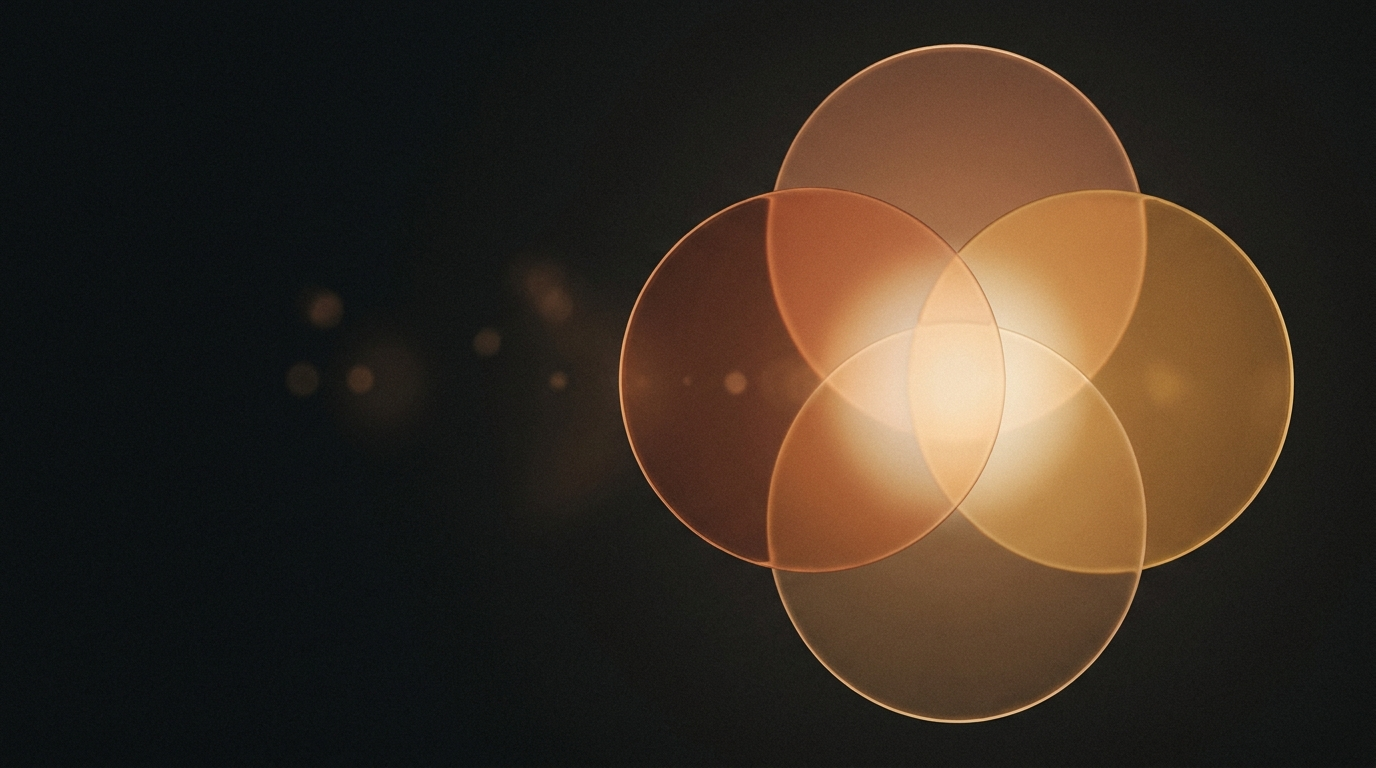
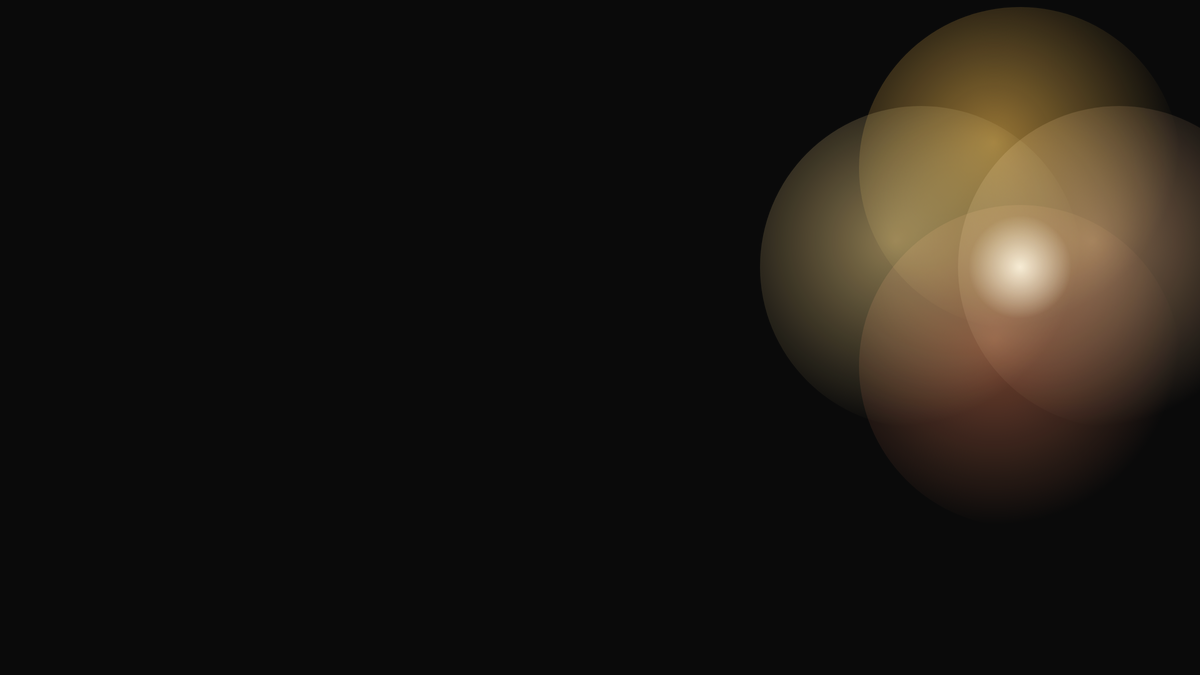
Lab Notes covers: new mark, agreed diagram, remove the mirror
The cover pipeline now carries the identity decided in September.

- Brand lockup top left: the mark at 44px with IKIGAI COLLECTIVE
  beside it. The footer keeps the URL, without the mark.
- New master built from the agreed ikigai diagram, replacing the
  generative one. Sized to the cover, so background() skips the
  week-seeded crop; tone variation still applies.
- Mirror removed, along with the NO_FLIP exceptions for weeks 13,
  15, 17, 19 and 21. Per Dex: the flip has never once been wanted.
- Muted grey #8a837c to #8a8078, the contrast-verified token. The
  old value failed WCAG AA at 3.25:1 on a card.
- mark.py draws the mark with PIL, supersampled with round caps,
  so the pipeline stays self-contained and needs no asset file.

Note for whoever runs this: it is macOS-only, the Georgia paths are
hardcoded, and it rebuilds all 22 covers rather than only the newest.
The Substack archive is not reissued, so the site and Substack will
differ for older posts.

Claude-Session: https://claude.ai/code/session_01SPhhSGPW4XxErHSNk57FmR

diff --git a/lab-notes/make_covers.py b/lab-notes/make_covers.py
@@ -17,11 +17,13 @@ from pathlib import Path
 
 from PIL import Image, ImageDraw, ImageEnhance, ImageFont
 
+from mark import mark_image
+
 ROOT = Path(__file__).resolve().parent
 SRC = ROOT / "src"
 OUT = ROOT / "img"
 
-FG, ACCENT, MUTED = "#e8e6e3", "#c4956a", "#8a837c"
+FG, ACCENT, MUTED = "#e8e6e3", "#c4956a", "#8a8078"
 GEORGIA = "/System/Library/Fonts/Supplemental/Georgia.ttf"
 GEORGIA_I = "/System/Library/Fonts/Supplemental/Georgia Italic.ttf"
 W, H = 1200, 675
@@ -42,19 +44,16 @@ def parse_meta(path: Path) -> dict:
     return meta
 
 
-# Weeks where the seeded flip would land the Venn cluster on the text (left) side.
-NO_FLIP = {13, 15, 17, 19, 21}
-
-
 def background(week: int) -> Image.Image:
     """Week-seeded crop + tone of the master: same family, distinct feel."""
     m = Image.open(SRC / "master-16x9.png").convert("RGB")
-    mw, mh = m.size  # 1376x768
-    x_off = (week * 37) % max(1, mw - W)
-    y_off = (week * 23) % max(1, mh - H)
-    im = m.crop((x_off, y_off, x_off + W, y_off + H))
-    if week % 2 and week not in NO_FLIP:
-        im = im.transpose(Image.FLIP_LEFT_RIGHT)
+    mw, mh = m.size
+    if (mw, mh) == (W, H):
+        im = m
+    else:
+        x_off = (week * 37) % max(1, mw - W)
+        y_off = (week * 23) % max(1, mh - H)
+        im = m.crop((x_off, y_off, x_off + W, y_off + H))
     im = ImageEnhance.Brightness(im).enhance(0.94 + (week % 5) * 0.03)
     im = ImageEnhance.Color(im).enhance(0.92 + (week % 4) * 0.05)
     return im
@@ -88,6 +87,12 @@ def cover(meta: dict) -> None:
     week = int(meta["week"])
     im = background(week)
     d = ImageDraw.Draw(im)
+    # brand lockup, top left: the mark with the wordmark beside it
+    mark_px, wordmark_px = 44, 22
+    m = mark_image(mark_px, ACCENT)
+    im.paste(m, (TEXT_X, 42), m)
+    d.text((TEXT_X + mark_px + 16, 42 + (mark_px - wordmark_px) // 2 - 1),
+           " ".join("IKIGAI COLLECTIVE"), font=font(GEORGIA, wordmark_px), fill=MUTED)
     kicker = "LAB NOTES"
     kf = font(GEORGIA, 20)
     tf = title_font(d, meta["title"])

diff --git a/lab-notes/mark.py b/lab-notes/mark.py
@@ -1,0 +1,35 @@
+"""Draw the Ikigai Collective mark with PIL, supersampled, with round caps.
+
+Geometry is the resolved master: 64x64 box, stroke 5, arc radii 7/11/15
+about a baseline at y=39, stem to y=25, released dot r 4.6 at (47, 13.5).
+Kept as code rather than an asset so the cover pipeline stays self-contained.
+"""
+from PIL import Image, ImageDraw
+
+SS = 8  # supersample factor
+
+
+def mark_image(size: int, colour: str) -> Image.Image:
+    s = size * SS / 64.0
+    im = Image.new("RGBA", (size * SS, size * SS), (0, 0, 0, 0))
+    d = ImageDraw.Draw(im)
+    w = 5 * s                      # stroke width
+    r = w / 2                      # cap radius
+
+    def box(cx, cy, rad):
+        return [(cx - rad) * s, (cy - rad) * s, (cx + rad) * s, (cy + rad) * s]
+
+    def cap(cx, cy):
+        d.ellipse([cx * s - r, cy * s - r, cx * s + r, cy * s + r], fill=colour)
+
+    # three alternating semicircles of increasing radius
+    d.arc(box(32, 39, 7),  180, 360, fill=colour, width=int(w))
+    d.arc(box(28, 39, 11),   0, 180, fill=colour, width=int(w))
+    d.arc(box(32, 39, 15), 180, 360, fill=colour, width=int(w))
+    # the stem, and the released dot
+    d.line([47 * s, 39 * s, 47 * s, 25 * s], fill=colour, width=int(w))
+    for pt in ((25, 39), (47, 39), (47, 25)):
+        cap(*pt)
+    dot = 4.6
+    d.ellipse(box(47, 13.5, dot), fill=colour)
+    return im.resize((size, size), Image.LANCZOS)
